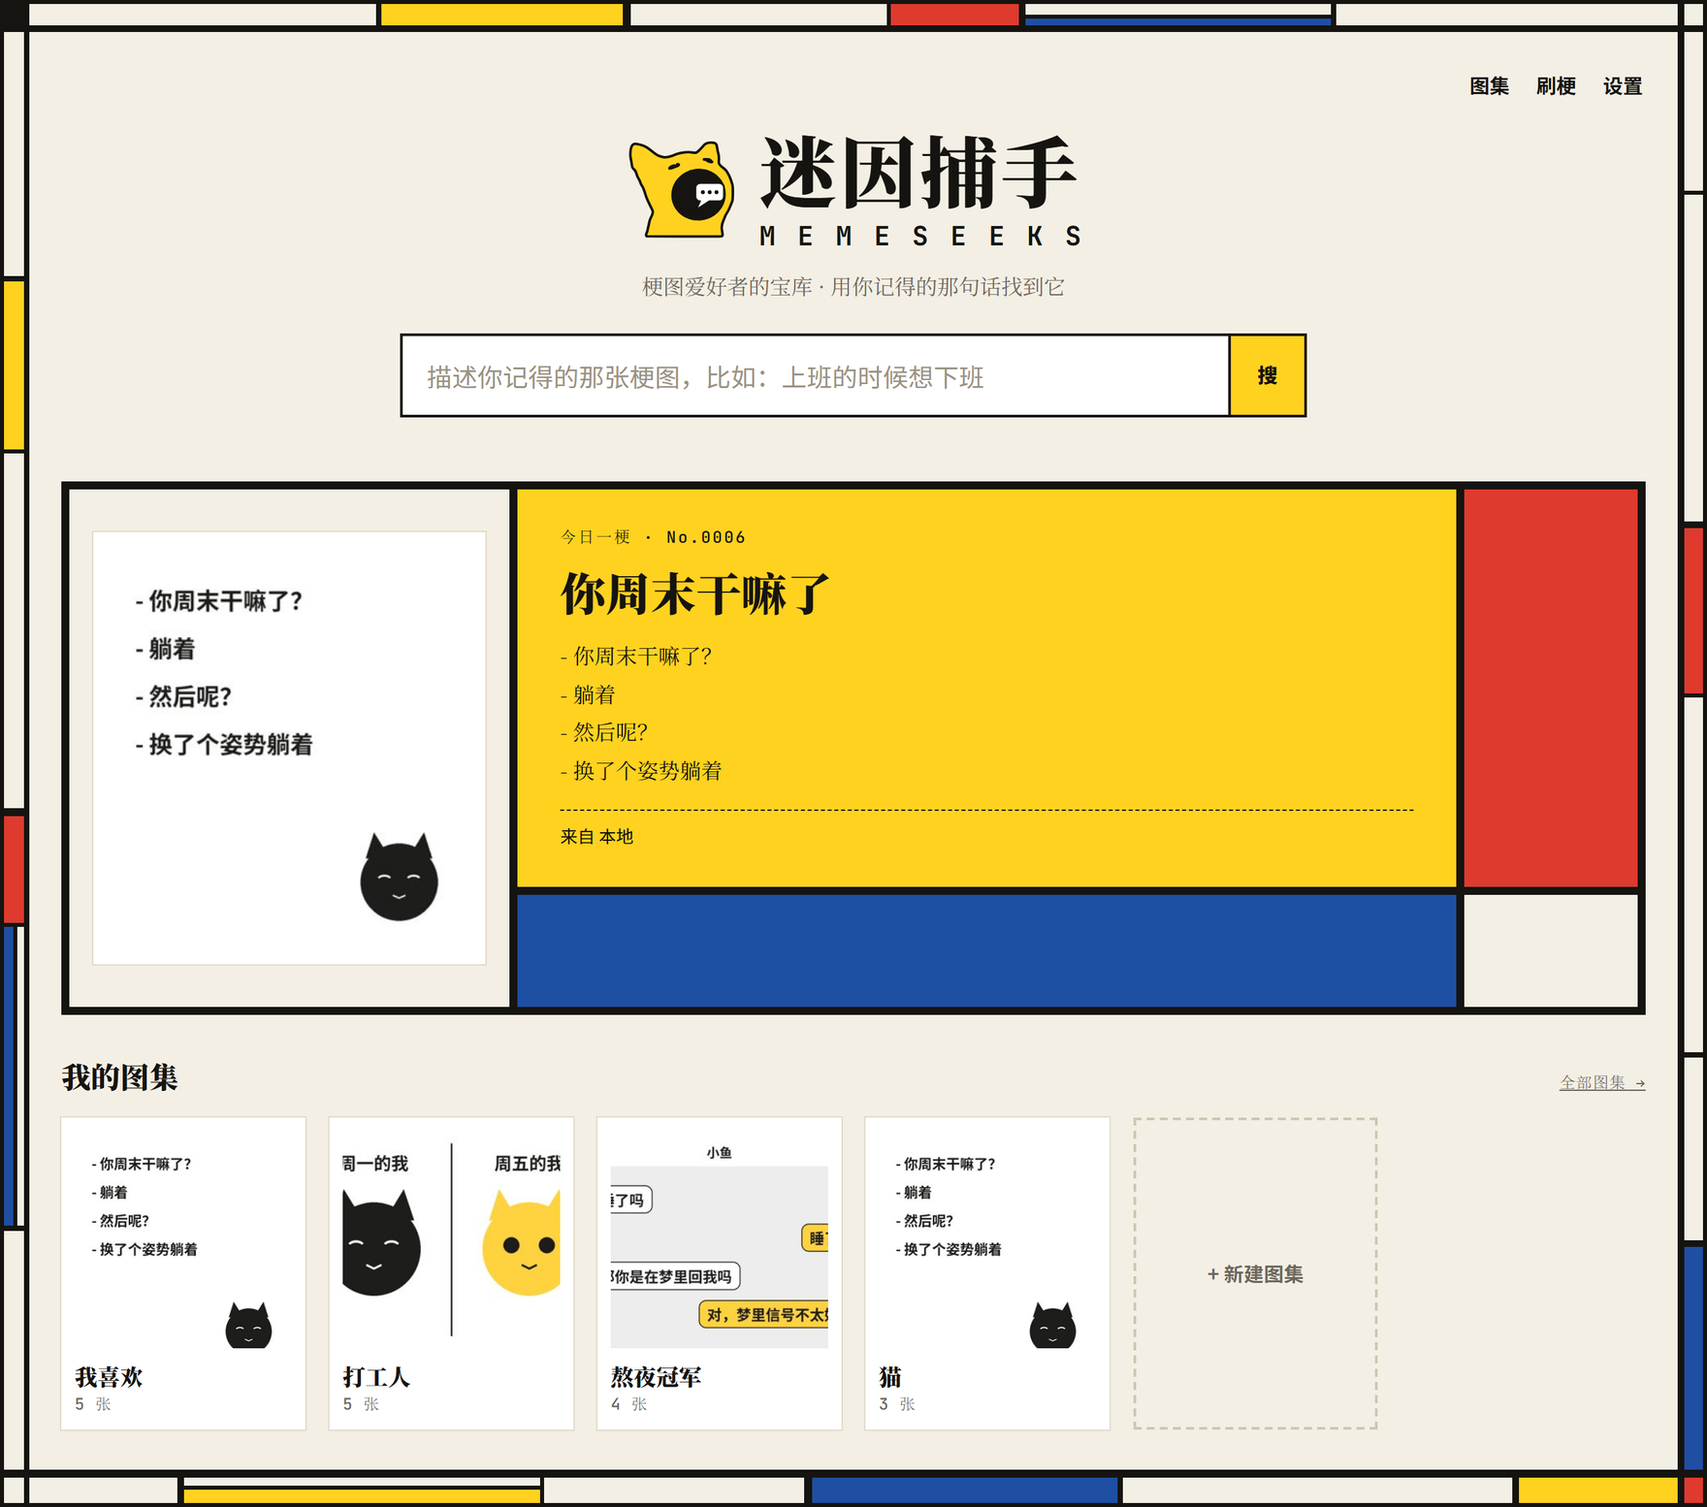
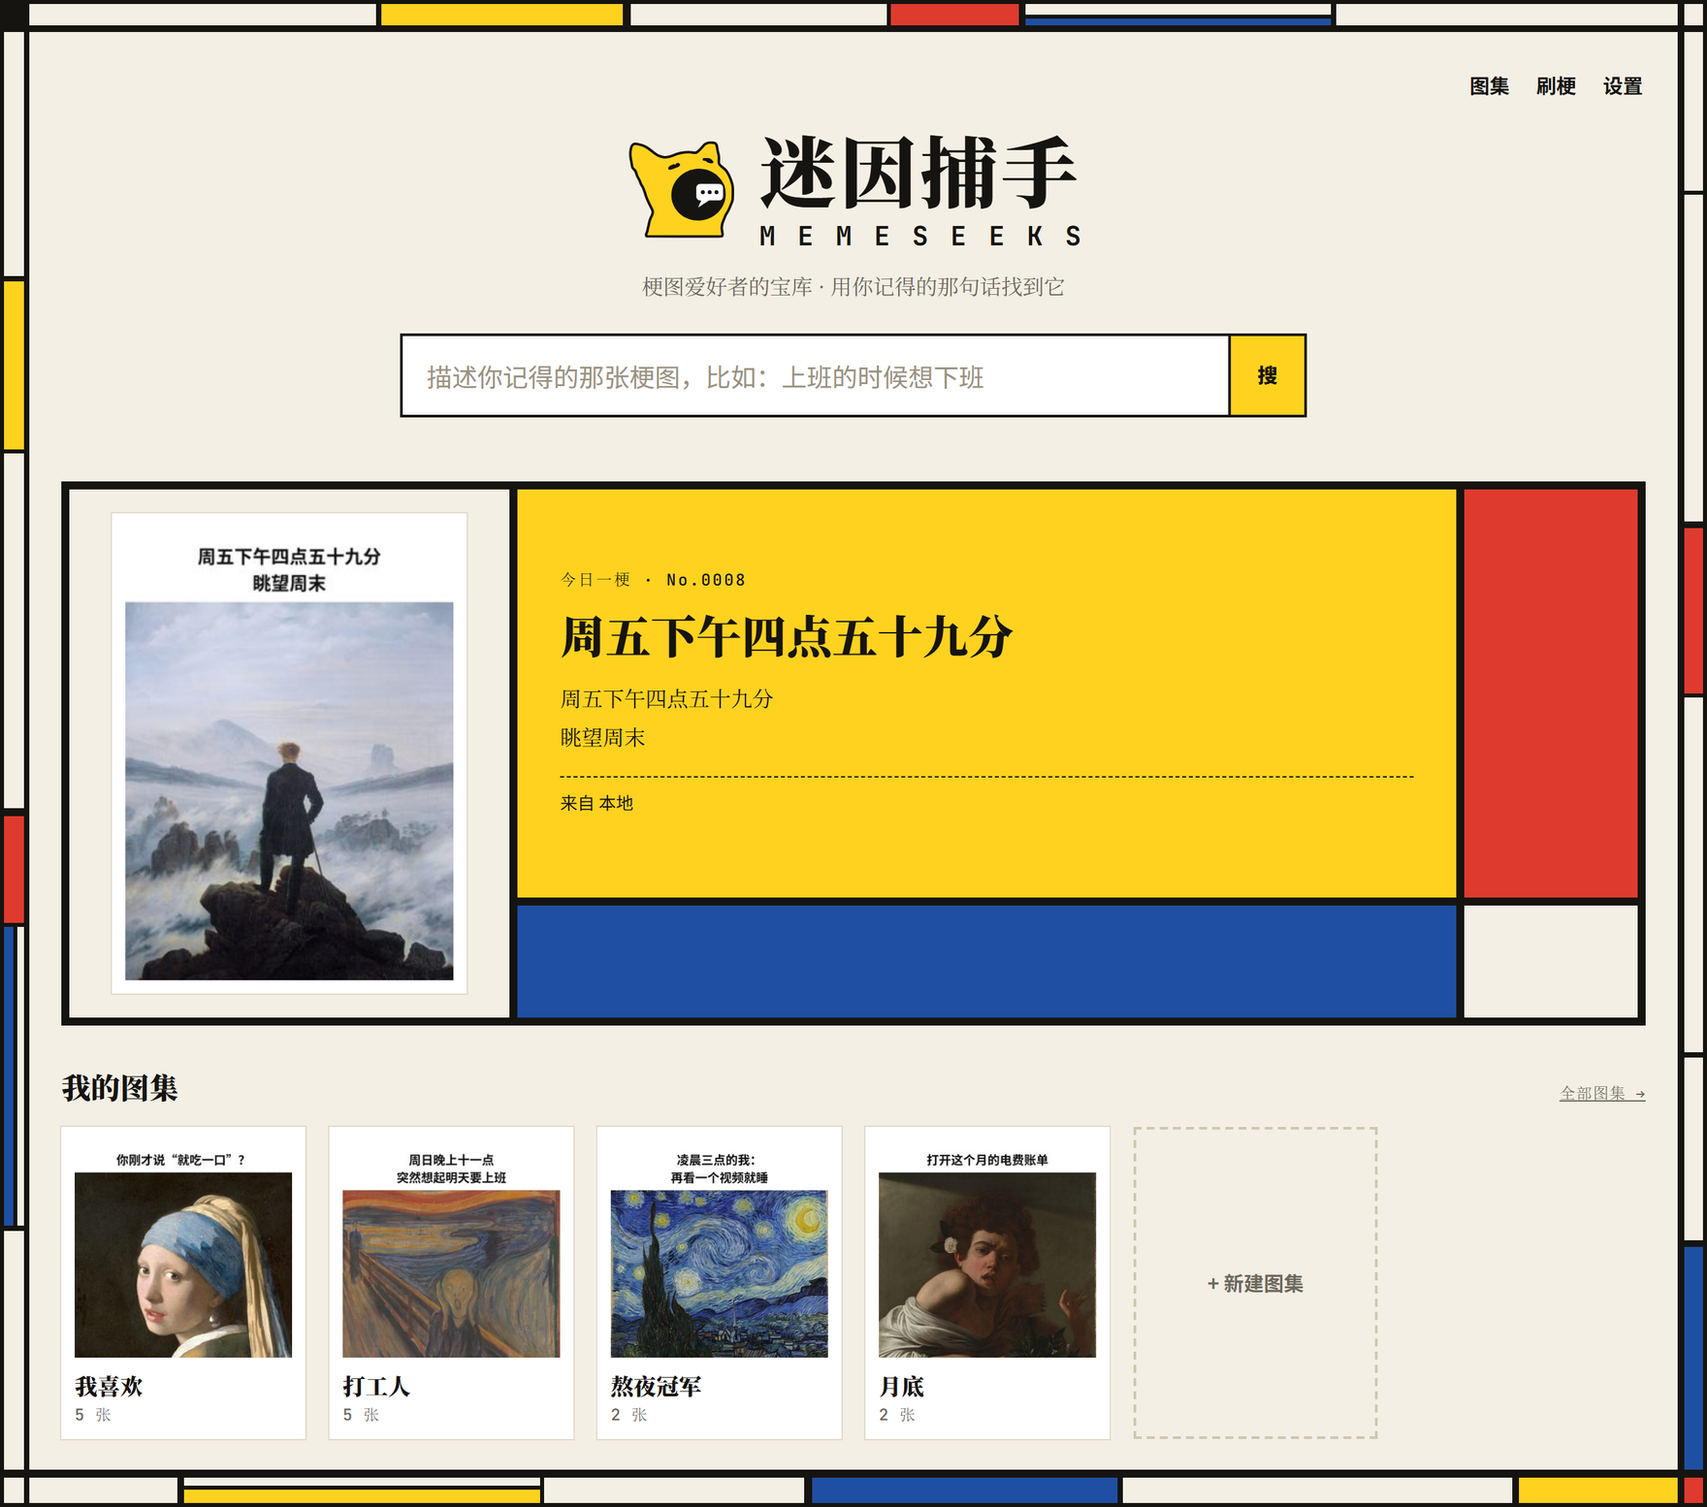
README screenshots from public-domain paintings instead of drawn memes
scripts/demo_memes.py now puts a caption written for this project over a public-domain painting
from Wikimedia Commons (The Scream, the Mona Lisa, The Starry Night, ...), in the plain style of
a 配文图; it refuses a file Commons does not mark public domain. The screenshots keep their names,
so the PyPI page shows the new ones too.

Changed region(s): [[0.0312, 0.3398, 0.9688, 0.9575], [0.9062, 0.7104, 0.9688, 0.7413], [0.7188, 0.834, 0.7812, 0.8649]]

diff --git a/scripts/demo_memes.py b/scripts/demo_memes.py
@@ -1,253 +1,107 @@
-"""Draw a small set of demo memes: for the README's screenshots, or to try memeseeks without a collection.
+"""Make a small set of demo memes: for the README's screenshots, or to try memeseeks without a collection.
 
-  python scripts/demo_memes.py OUT_DIR [--font NotoSansSC.otf]
+  python scripts/demo_memes.py OUT_DIR [--font NotoSansSC-Bold.otf] [--cache DIR]
 
-Every joke here was written for this project and every picture is drawn by this script, so the images can be
-shared freely. It needs a font with Chinese characters: Noto Sans SC (SIL Open Font License) by default.
+Each one is a public-domain painting (downloaded from Wikimedia Commons, where each file is marked public domain)
+under a caption written for this project, in the plain style of a Chinese 配文图. It needs a font with Chinese
+characters: Noto Sans SC (SIL Open Font License) by default.
 """
 
 from __future__ import annotations
 
 import argparse
-import math
+import io
+import json
 import sys
+import urllib.parse
+import urllib.request
 from pathlib import Path
 
 from PIL import Image, ImageDraw, ImageFont
 
 FONTS = ["C:/Windows/Fonts/Noto Sans SC Bold (TrueType).otf", "C:/Windows/Fonts/NotoSansSC-VF.ttf",
          "/usr/share/fonts/opentype/noto/NotoSansCJK-Bold.ttc", "/System/Library/Fonts/PingFang.ttc"]
-INK, PAPER, CREAM, YELLOW, BLUE, RED, NIGHT = "#1d1d1b", "#ffffff", "#f6f1e7", "#ffd23f", "#2f5dd9", "#e4412b", "#1b2340"
+API = "https://commons.wikimedia.org/w/api.php"
+UA = {"User-Agent": "memeseeks-demo (https://github.com/tactino/memeseeks)"}
+WIDTH = 1000
+
+# file name, the painting on Commons, the part of it to keep (left, top, right, bottom, as fractions), caption
+MEMES = [
+    ("sunday_night.jpg", "File:Edvard Munch, 1893, The Scream, oil, tempera and pastel on cardboard, 91 x 73 cm, "
+     "National Gallery of Norway.jpg", (0.04, 0.22, 0.96, 0.98), "周日晚上十一点\n突然想起明天要上班"),
+    ("no_overtime.jpg", "File:Mona Lisa, by Leonardo da Vinci, from C2RMF retouched.jpg",
+     (0.1, 0.06, 0.9, 0.6), "听说今天不用加班"),
+    ("night_owl.jpg", "File:Van Gogh - Starry Night - Google Art Project.jpg",
+     (0, 0, 1, 1), "凌晨三点的我：\n再看一个视频就睡"),
+    ("deadline.jpg", "File:Tsunami by hokusai 19th century.jpg", (0, 0, 1, 1), "deadline 向我涌来的样子"),
+    ("one_bite.jpg", "File:1665 Girl with a Pearl Earring.jpg", (0.06, 0.04, 0.94, 0.9), "你刚才说“就吃一口”？"),
+    ("bill.jpg", "File:Caravaggio - Boy Bitten by a Lizard.jpg", (0, 0.02, 1, 0.82), "打开这个月的电费账单"),
+    ("exam.jpg", "File:Gustave Courbet - Le Désespéré (1843).jpg", (0, 0, 1, 1), "考试前：我能行\n考试后：我是谁 我在哪"),
+    ("friday.jpg", "File:Caspar David Friedrich - Wanderer above the sea of fog.jpg", (0, 0, 1, 0.9),
+     "周五下午四点五十九分\n眺望周末"),
+    ("winter_commute.jpg", "File:Pieter Bruegel the Elder - Hunters in the Snow (Winter) - Google Art Project.jpg",
+     (0, 0, 1, 1), "冬天早上七点\n出门上班的打工人"),
+    ("month_end.jpg", "File:Jean-François Millet - Gleaners - Google Art Project 2.jpg", (0, 0, 1, 1),
+     "月底在沙发缝里找零钱"),
+    ("weekend.jpg", "File:Flaming June, by Frederic Lord Leighton (1830-1896).jpg", (0, 0, 1, 1),
+     "- 你周末干嘛了？\n- 躺着\n- 然后呢？\n- 换了个姿势躺着"),
+]
 
 
-class Draw:
-    def __init__(self, font_path: str):
-        self.font_path = font_path
+def fetch(title: str, cache: Path) -> Image.Image:
+    """The painting, 1200 px wide, kept in `cache` after the first download. Refuses one not marked public domain."""
+    path = cache / (title.removeprefix("File:").rsplit(".", 1)[0][:80].replace(" ", "_") + ".jpg")
+    if not path.exists():
+        query = urllib.parse.urlencode({"action": "query", "titles": title, "prop": "imageinfo", "format": "json",
+                                        "formatversion": 2, "iiprop": "url|extmetadata", "iiurlwidth": 1200})
+        with urllib.request.urlopen(urllib.request.Request(f"{API}?{query}", headers=UA), timeout=60) as r:
+            info = json.load(r)["query"]["pages"][0]["imageinfo"][0]
+        licence = info["extmetadata"].get("LicenseShortName", {}).get("value", "")
+        if licence.lower() != "public domain":
+            raise SystemExit(f"{title} is marked {licence!r}, not public domain")
+        with urllib.request.urlopen(urllib.request.Request(info["thumburl"], headers=UA), timeout=120) as r:
+            data = r.read()
+        cache.mkdir(parents=True, exist_ok=True)
+        path.write_bytes(data)
+    return Image.open(io.BytesIO(path.read_bytes())).convert("RGB")
 
-    def font(self, size: int) -> ImageFont.FreeTypeFont:
-        return ImageFont.truetype(self.font_path, size)
 
-    def text(self, d: ImageDraw.ImageDraw, xy, text: str, size: int, fill=INK, anchor="la", spacing=1.35):
-        f = self.font(size)
-        x, y = xy
-        for line in text.split("\n"):
-            d.text((x, y), line, font=f, fill=fill, anchor=anchor)
-            y += int(size * spacing)
-        return y
-
-    def center(self, d, w: int, y: int, text: str, size: int, fill=INK, spacing=1.35):
-        return self.text(d, (w // 2, y), text, size, fill, anchor="ma", spacing=spacing)
-
-
-def cat(d: ImageDraw.ImageDraw, cx: int, cy: int, r: int, fill=INK, eyes="open", face=PAPER):
-    """A round cat face: ears, eyes (open / half / closed), a small mouth."""
-    ear = r * 0.62
-    for side in (-1, 1):
-        base = cx + side * r * 0.55
-        d.polygon([(base - ear * 0.5, cy - r * 0.62), (base + side * ear * 0.15, cy - r * 1.28),
-                   (base + ear * 0.5, cy - r * 0.62)], fill=fill)
-    d.ellipse([cx - r, cy - r, cx + r, cy + r], fill=fill)
-    ex, ey, er = r * 0.38, cy - r * 0.08, r * 0.17
-    for side in (-1, 1):
-        x = cx + side * ex
-        if eyes == "open":
-            d.ellipse([x - er, ey - er, x + er, ey + er], fill=face)
-        elif eyes == "half":  # judging you
-            d.chord([x - er, ey - er, x + er, ey + er], 0, 180, fill=face)
-            d.line([x - er * 1.2, ey, x + er * 1.2, ey], fill=face, width=max(2, r // 22))
+def meme(painting: Image.Image, crop, caption: str, font_path: str) -> Image.Image:
+    w, h = painting.size
+    picture = painting.crop((round(crop[0] * w), round(crop[1] * h), round(crop[2] * w), round(crop[3] * h)))
+    picture = picture.resize((WIDTH, round(picture.height * WIDTH / picture.width)), Image.LANCZOS)
+    lines = caption.split("\n")
+    dialogue = all(line.startswith("- ") for line in lines)
+    size = 56 if max(len(line) for line in lines) <= 13 else 48
+    font = ImageFont.truetype(font_path, size)
+    step, pad = round(size * 1.45), 46
+    band = pad * 2 + step * len(lines) - round(size * 0.45)
+    im = Image.new("RGB", (WIDTH, band + picture.height), "white")
+    d = ImageDraw.Draw(im)
+    for k, line in enumerate(lines):
+        y = pad + k * step
+        if dialogue:  # a dialogue reads down the left, one line a turn
+            d.text((64, y), line, font=font, fill="#111111")
         else:
-            d.arc([x - er, ey - er * 0.6, x + er, ey + er * 0.6], 200, 340, fill=face, width=max(3, r // 18))
-    mw = r * 0.16
-    d.line([cx - mw, cy + r * 0.34, cx, cy + r * 0.42, cx + mw, cy + r * 0.34], fill=face, width=max(3, r // 20),
-           joint="curve")
-
-
-def bubble(dr: Draw, d, x: int, y: float, text: str, size: int, right: bool, width: int):
-    f = dr.font(size)
-    tw = int(d.textlength(text, font=f))
-    pad = size * 0.55
-    bw, bh = tw + pad * 2, size * 1.9
-    x0 = width - x - bw if right else x
-    d.rounded_rectangle([x0, y, x0 + bw, y + bh], radius=size * 0.5, fill=YELLOW if right else PAPER,
-                        outline=INK, width=3)
-    d.text((x0 + pad, y + bh / 2), text, font=f, fill=INK, anchor="lm")
-    return y + bh + size * 0.7
-
-
-def meme_off_work(dr: Draw):
-    im = Image.new("RGB", (900, 900), CREAM)
-    d = ImageDraw.Draw(im)
-    dr.center(d, 900, 250, "上班的时候\n想下班", 92)
-    dr.center(d, 900, 540, "下班的时候\n想辞职", 92, fill=RED)
-    dr.text(d, (880, 870), "@示例小号", 22, fill="#9a948a", anchor="rs")
+            d.text((WIDTH // 2, y), line, font=font, fill="#111111", anchor="ma")
+    im.paste(picture, (0, band))
     return im
-
-
-def meme_asleep(dr: Draw):
-    im = Image.new("RGB", (900, 680), "#ededed")
-    d = ImageDraw.Draw(im)
-    d.rectangle([0, 0, 900, 110], fill=PAPER)
-    dr.center(d, 900, 36, "小鱼", 40)
-    y = 170.0
-    for text, right in (("睡了吗", False), ("睡了", True), ("那你是在梦里回我吗", False), ("对，梦里信号不太好", True)):
-        y = bubble(dr, d, 50, y, text, 46, right, 900)
-    return im
-
-
-def meme_procrastinate(dr: Draw):
-    im = Image.new("RGB", (900, 900), YELLOW)
-    d = ImageDraw.Draw(im)
-    dr.center(d, 900, 150, "我不是在拖延", 84)
-    dr.center(d, 900, 330, "我是在等灵感", 84)
-    dr.center(d, 900, 560, "灵感也在拖延", 84, fill=BLUE)
-    return im
-
-
-def meme_night_owl(dr: Draw):
-    im = Image.new("RGB", (900, 1000), NIGHT)
-    d = ImageDraw.Draw(im)
-    d.ellipse([640, 90, 790, 240], fill="#f5e6a8")
-    d.ellipse([600, 70, 740, 210], fill=NIGHT)
-    for i in range(18):
-        x, y = (i * 137) % 860 + 20, (i * 71) % 320 + 30
-        d.ellipse([x, y, x + 5, y + 5], fill="#c9d1f0")
-    dr.center(d, 900, 400, "凌晨三点的我：", 64, fill="#c9d1f0")
-    dr.center(d, 900, 520, "再看一个视频就睡", 80, fill=PAPER)
-    dr.center(d, 900, 800, "（第 12 个）", 48, fill="#8d97c4")
-    return im
-
-
-def meme_cat_judge(dr: Draw):
-    im = Image.new("RGB", (900, 1000), PAPER)
-    d = ImageDraw.Draw(im)
-    cat(d, 450, 470, 250, eyes="half")
-    dr.center(d, 900, 70, "你刚才说“就吃一口”", 60)
-    dr.center(d, 900, 830, "猫：我都看见了", 64, fill=RED)
-    return im
-
-
-def meme_weekend(dr: Draw):
-    im = Image.new("RGB", (900, 1000), PAPER)
-    d = ImageDraw.Draw(im)
-    y = dr.text(d, (70, 90), "- 你周末干嘛了？", 58)
-    y = dr.text(d, (70, y + 40), "- 躺着", 58)
-    y = dr.text(d, (70, y + 40), "- 然后呢？", 58)
-    dr.text(d, (70, y + 40), "- 换了个姿势躺着", 58)
-    cat(d, 720, 830, 95, eyes="closed")
-    return im
-
-
-def meme_exam(dr: Draw):
-    im = Image.new("RGB", (900, 1100), CREAM)
-    d = ImageDraw.Draw(im)
-    rows = (("考试前", "我能行", YELLOW), ("考试中", "我是谁", "#ffe8a3"), ("考试后", "我在哪", "#fff4d1"))
-    for k, (when, what, fill) in enumerate(rows):
-        top = 60 + k * 340
-        d.rectangle([60, top, 840, top + 300], fill=fill, outline=INK, width=5)
-        dr.text(d, (100, top + 40), when, 50, fill="#6b665c")
-        dr.text(d, (100, top + 140), what, 96)
-    return im
-
-
-def meme_wallet(dr: Draw):
-    im = Image.new("RGB", (900, 900), "#e9f2e4")
-    d = ImageDraw.Draw(im)
-    d.rounded_rectangle([230, 300, 670, 620], radius=40, fill="#7a5a3a", outline=INK, width=6)
-    d.rounded_rectangle([520, 400, 700, 520], radius=24, fill="#8f6c49", outline=INK, width=6)
-    for x in (320, 440):
-        d.ellipse([x - 18, 410, x + 18, 446], fill=PAPER)
-    d.arc([330, 470, 430, 560], 200, 340, fill=PAPER, width=8)
-    dr.center(d, 900, 110, "月底的钱包：", 70)
-    dr.center(d, 900, 700, "我已经尽力了", 80, fill=RED)
-    return im
-
-
-def meme_room(dr: Draw):
-    im = Image.new("RGB", (900, 860), PAPER)
-    d = ImageDraw.Draw(im)
-    d.ellipse([60, 60, 150, 150], fill=YELLOW, outline=INK, width=4)
-    dr.text(d, (180, 70), "整理控小王", 40)
-    dr.text(d, (180, 122), "2 小时前", 30, fill="#9a948a")
-    dr.text(d, (60, 220), "花了一整天\n终于把房间收拾干净了！", 58)
-    d.line([60, 520, 840, 520], fill="#e0dcd4", width=3)
-    dr.text(d, (60, 570), "评论 3", 34, fill="#6b665c")
-    cat(d, 110, 720, 46)
-    dr.text(d, (190, 670), "楼下的猫", 36, fill="#6b665c")
-    dr.text(d, (190, 730), "已经帮你弄乱了，不用谢", 46)
-    return im
-
-
-def meme_early(dr: Draw):
-    im = Image.new("RGB", (900, 900), BLUE)
-    d = ImageDraw.Draw(im)
-    dr.center(d, 900, 260, "明天一定早睡", 96, fill=PAPER)
-    dr.center(d, 900, 520, "——我，第 365 次说", 54, fill=YELLOW)
-    return im
-
-
-def meme_diet(dr: Draw):
-    im = Image.new("RGB", (900, 900), "#fde3dc")
-    d = ImageDraw.Draw(im)
-    dr.center(d, 900, 200, "减肥第一天", 90)
-    dr.center(d, 900, 420, "先吃饱", 120, fill=RED)
-    dr.center(d, 900, 620, "才有力气减", 90)
-    return im
-
-
-def meme_monday(dr: Draw):
-    im = Image.new("RGB", (1000, 700), PAPER)
-    d = ImageDraw.Draw(im)
-    d.line([500, 40, 500, 660], fill=INK, width=5)
-    dr.center(d, 500, 60, "周一的我", 56)
-    dr.text(d, (750, 60), "周五的我", 56, anchor="ma")
-    cat(d, 250, 380, 150, eyes="closed")
-    cat(d, 750, 380, 150, fill=YELLOW, face=INK)
-    return im
-
-
-def meme_english(dr: Draw):
-    im = Image.new("RGB", (900, 900), PAPER)
-    d = ImageDraw.Draw(im)
-    y = dr.text(d, (70, 120), "me: I'll just check my phone\nfor five minutes", 56)
-    dr.text(d, (70, y + 70), "the sun, rising:", 56)
-    d.pieslice([300, 620, 600, 920], 180, 360, fill=YELLOW, outline=INK, width=5)
-    for k in range(7):
-        a = math.pi * (k + 1) / 8
-        d.line([450 - 190 * math.cos(a), 770 - 190 * math.sin(a), 450 - 250 * math.cos(a), 770 - 250 * math.sin(a)],
-               fill=INK, width=6)
-    return im
-
-
-def meme_traditional(dr: Draw):
-    im = Image.new("RGB", (900, 900), CREAM)
-    d = ImageDraw.Draw(im)
-    dr.center(d, 900, 230, "這個梗我收藏了", 80)
-    dr.center(d, 900, 430, "下次吵架的時候用", 64, fill=BLUE)
-    return im
-
-
-MEMES = {
-    "off_work.png": meme_off_work, "asleep.png": meme_asleep, "procrastinate.png": meme_procrastinate,
-    "night_owl.jpg": meme_night_owl, "cat_judge.png": meme_cat_judge, "weekend.png": meme_weekend,
-    "exam.png": meme_exam, "wallet.png": meme_wallet, "room.png": meme_room, "early.png": meme_early,
-    "diet.png": meme_diet, "monday.png": meme_monday, "phone.png": meme_english, "collected.png": meme_traditional,
-}
 
 
 def main(argv=None) -> int:
-    ap = argparse.ArgumentParser(description="draw a small set of demo memes")
+    ap = argparse.ArgumentParser(description="make a small set of demo memes from public-domain paintings")
     ap.add_argument("out", type=Path)
     ap.add_argument("--font", help="a font with Chinese characters")
+    ap.add_argument("--cache", type=Path, help="where to keep the downloaded paintings (default: OUT_DIR/../demo-paintings)")
     args = ap.parse_args(argv)
     font = args.font or next((f for f in FONTS if Path(f).exists()), None)
     if not font:
         print("no font with Chinese characters found; pass --font", file=sys.stderr)
         return 1
-    dr = Draw(font)
+    cache = args.cache or args.out.resolve().parent / "demo-paintings"
     args.out.mkdir(parents=True, exist_ok=True)
-    for name, make in MEMES.items():
-        im = make(dr)
-        im.save(args.out / name, quality=90) if name.endswith(".jpg") else im.save(args.out / name, optimize=True)
+    for name, title, crop, caption in MEMES:
+        meme(fetch(title, cache), crop, caption, font).save(args.out / name, quality=88)
     print(f"{len(MEMES)} memes in {args.out}")
     return 0
 

diff --git a/README.md b/README.md
@@ -10,7 +10,7 @@
 
 ![首页：今日一梗和我的图集](https://raw.githubusercontent.com/tactino/memeseeks/main/docs/screenshots/home.png)
 
-<sub>截图里的梗图都是示例图，由 `scripts/demo_memes.py` 画出。</sub>
+<sub>截图里的示例梗图用公有领域的名画（来自 Wikimedia Commons）配上本项目写的文字做成，由 `scripts/demo_memes.py` 生成。</sub>
 
 ## 安装
 
@@ -49,7 +49,7 @@ macOS / Linux 上对应的是在 `sh` 前面加 `MEMESEEKS_DIR=…`、`MEMESEEKS
 
 打开后先把梗图放进来。可以在任意图集页点「上传」，也可以直接把图片拖进页面；还可以在「设置 → 来源文件夹」里添加电脑上已有的梗图文件夹。放进来的新图会在后台建立索引，页头会显示进度。在笔记本 CPU 上每张大约 3.5 秒，1000 张大约一小时，以后只处理新增的图。
 
-![搜「睡觉」，捕到 4 张](https://raw.githubusercontent.com/tactino/memeseeks/main/docs/screenshots/search.png)
+![搜「上班」，捕到 5 张](https://raw.githubusercontent.com/tactino/memeseeks/main/docs/screenshots/search.png)
 
 - **搜索**：输入你记得的话，比如「上班的时候想下班」。把握大的结果排在前面，其余的折叠在「可能相关」里。
 - **图集**：有「全部」「我喜欢」和你自己建的图集。在梗图页点「加入图集」；在任意图集页点「上传」，或者把图片拖进页面。

diff --git a/README.en.md b/README.en.md
@@ -8,7 +8,7 @@ Describe what you remember about a meme, get it back from your own collection. W
 
 ![The home page: today's meme and the albums](https://raw.githubusercontent.com/tactino/memeseeks/main/docs/screenshots/home.png)
 
-<sub>The memes in the screenshots are demo images drawn by `scripts/demo_memes.py`.</sub>
+<sub>The demo memes in the screenshots are public-domain paintings (from Wikimedia Commons) under captions written for this project, made by `scripts/demo_memes.py`.</sub>
 
 ## How it finds memes
 
@@ -103,7 +103,7 @@ The library lives in `~/.memeseeks` (override with `--lib DIR` or `MEMESEEKS_HOM
 
 ### The web app
 
-![Searching 睡觉 (sleep): four confident matches](https://raw.githubusercontent.com/tactino/memeseeks/main/docs/screenshots/search.png)
+![Searching 上班 (going to work): five confident matches](https://raw.githubusercontent.com/tactino/memeseeks/main/docs/screenshots/search.png)
 
 It is a personal meme collection, a little like a music app is for songs:
 
